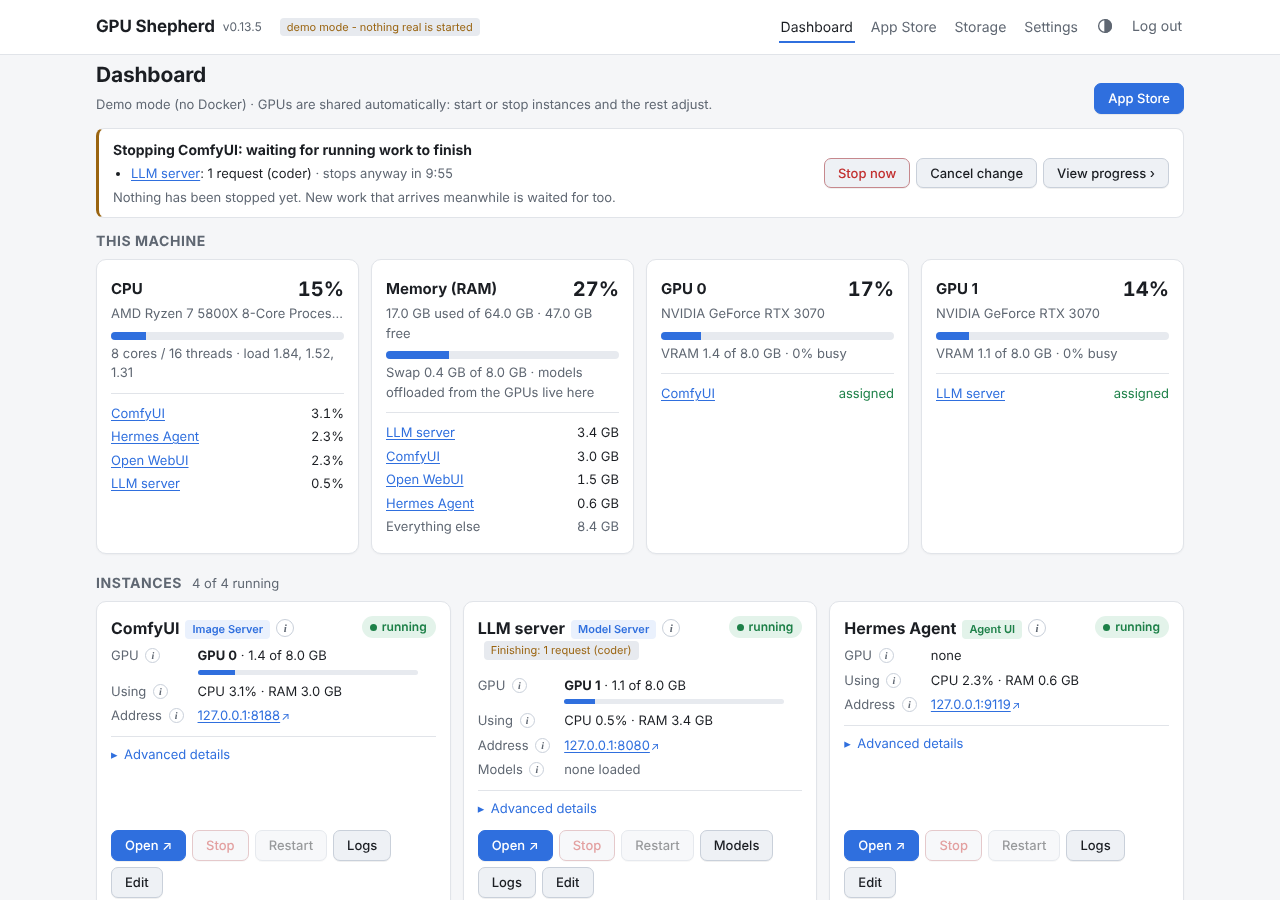
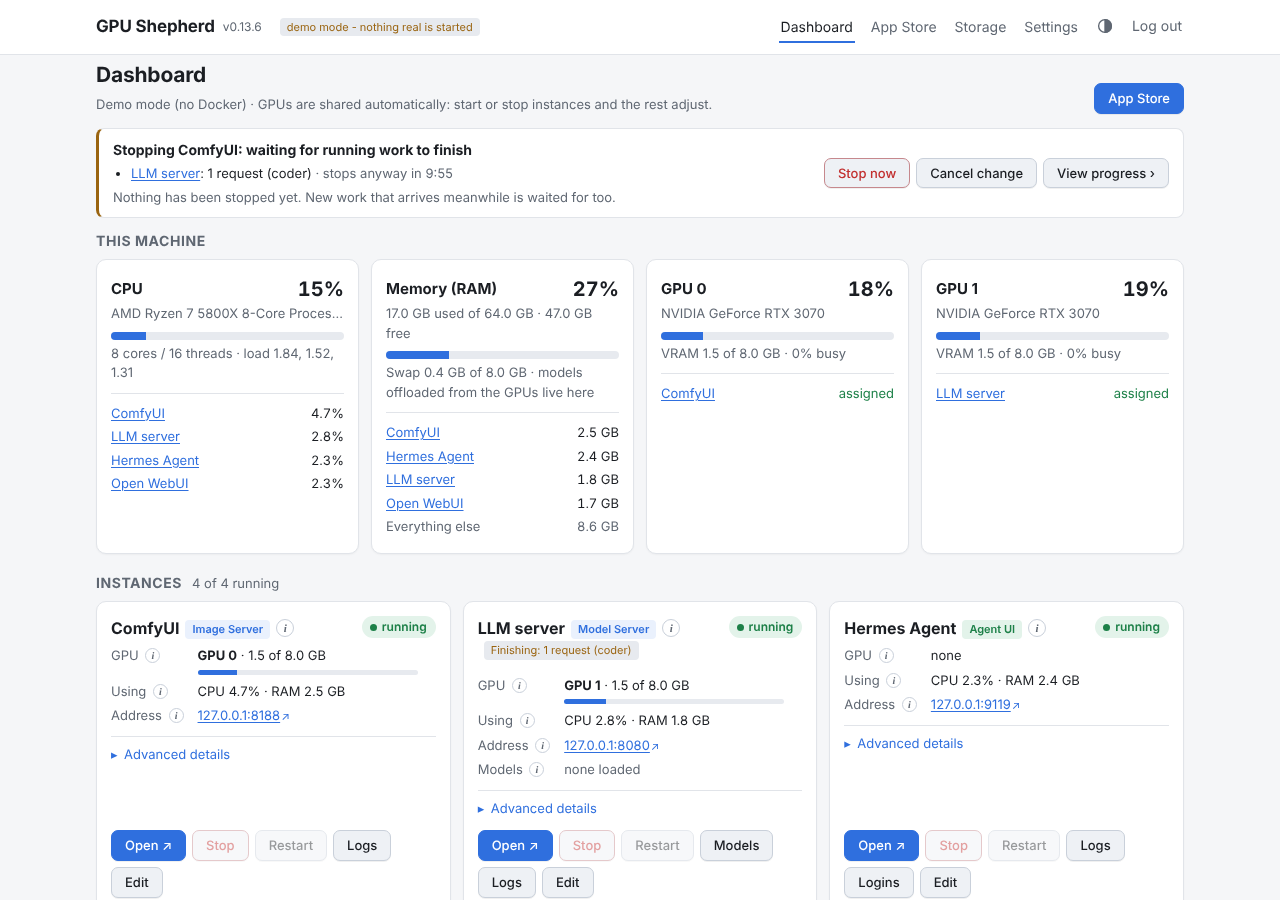
Screenshots: retake all at 0.13.6, add Logins and Credits
Also gives the Logins dialog's user field the same style as the password field.

Claude-Session: https://claude.ai/code/session_016Q83r7XMUaSKLE12fMJSHa

diff --git a/gpushepherd/templates/partials/logins.html b/gpushepherd/templates/partials/logins.html
@@ -17,7 +17,7 @@
   <form hx-post="/ui/instances/{{ info.instance }}/logins" hx-target="#modal-body" style="display:flex;flex-wrap:wrap;gap:8px;align-items:end">
     <label>User{% if info.accounts|length > 1 or info.multi_user %}<br>
       <select name="user">{% for a in info.accounts %}<option value="{{ a.user }}">{{ a.user }}</option>{% endfor %}</select>
-      {% else %}<br><input name="user" value="{{ info.accounts[0].user if info.accounts else '' }}" placeholder="optional" autocomplete="off">{% endif %}</label>
+      {% else %}<br><input name="user" type="text" value="{{ info.accounts[0].user if info.accounts else '' }}" placeholder="optional" autocomplete="off">{% endif %}</label>
     <label>New password<br><input name="password" type="text" placeholder="leave empty to make one up" autocomplete="off"></label>
     <button class="primary">Set new password</button>
   </form>

diff --git a/docs/advanced.md b/docs/advanced.md
@@ -350,6 +350,8 @@ the app must be running and a short script inside its container sets the new pas
 Agent and single-user AnythingLLM restart to pick it up. The same is in the API and the
 `gpu-shepherd logins` command.
 
+![Logins for Hermes Agent: its dashboard user and a new password](screenshots/logins.png)
+
 The App Store doesn't offer LobeChat (its current version needs PostgreSQL, S3 file storage, an
 auth key set and a fixed public address before it starts) or Odysseus (its model servers can only
 be added inside the app); install those with *Any Docker image* or Docker Compose.

diff --git a/README.md b/README.md
@@ -333,3 +333,5 @@ ComfyUI, Ollama, LibreChat, AnythingLLM, Langflow, InvokeAI, Speaches, Hermes Ag
 models are downloaded from their own publishers and keep their own licenses, shown on each App
 Store card. [ACKNOWLEDGEMENTS.md](ACKNOWLEDGEMENTS.md) lists every project with its license and
 what it's used for; the dashboard has the same list under the version number, **Credits**.
+
+![Open-source credits in the dashboard](docs/screenshots/credits.png)
